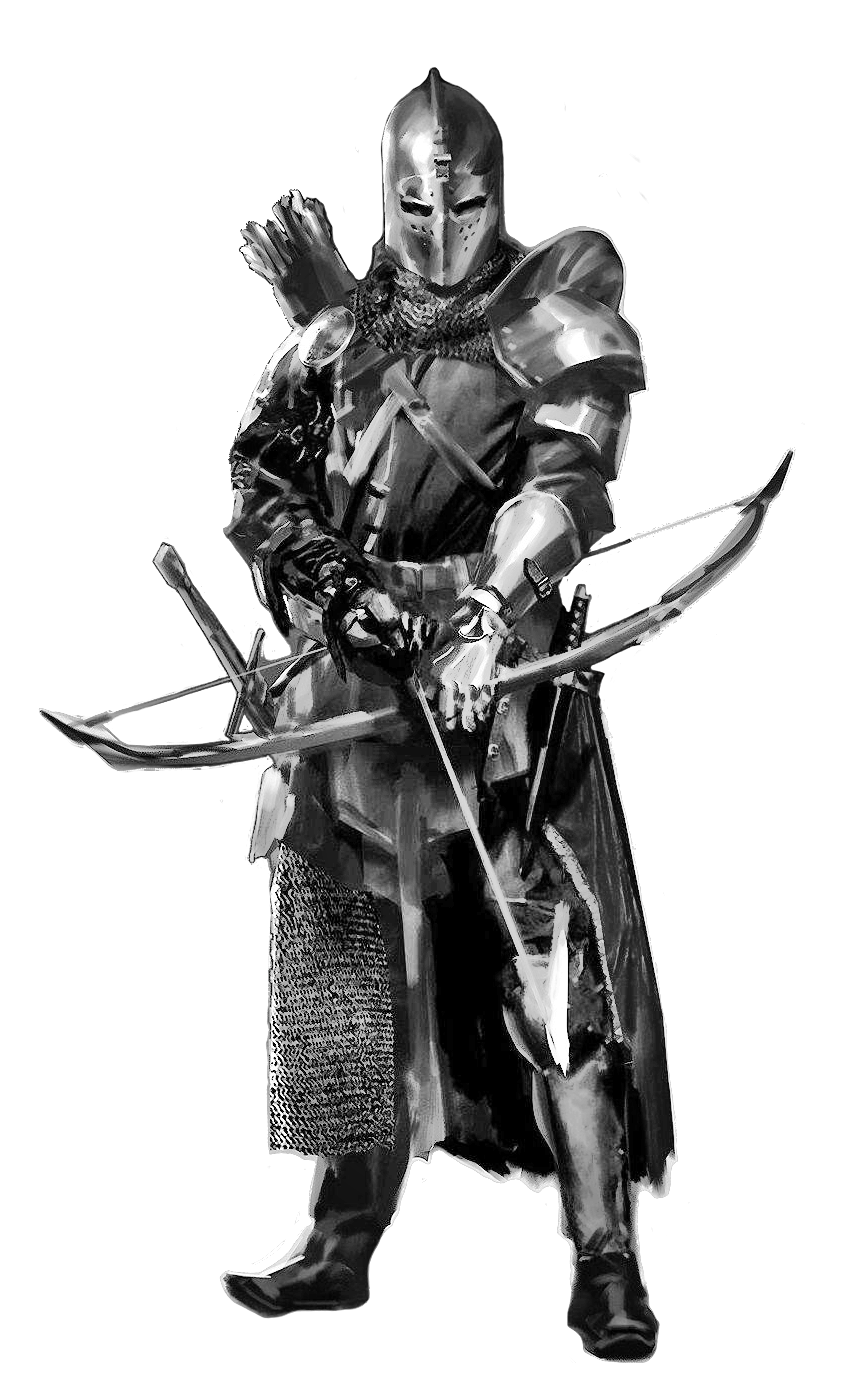
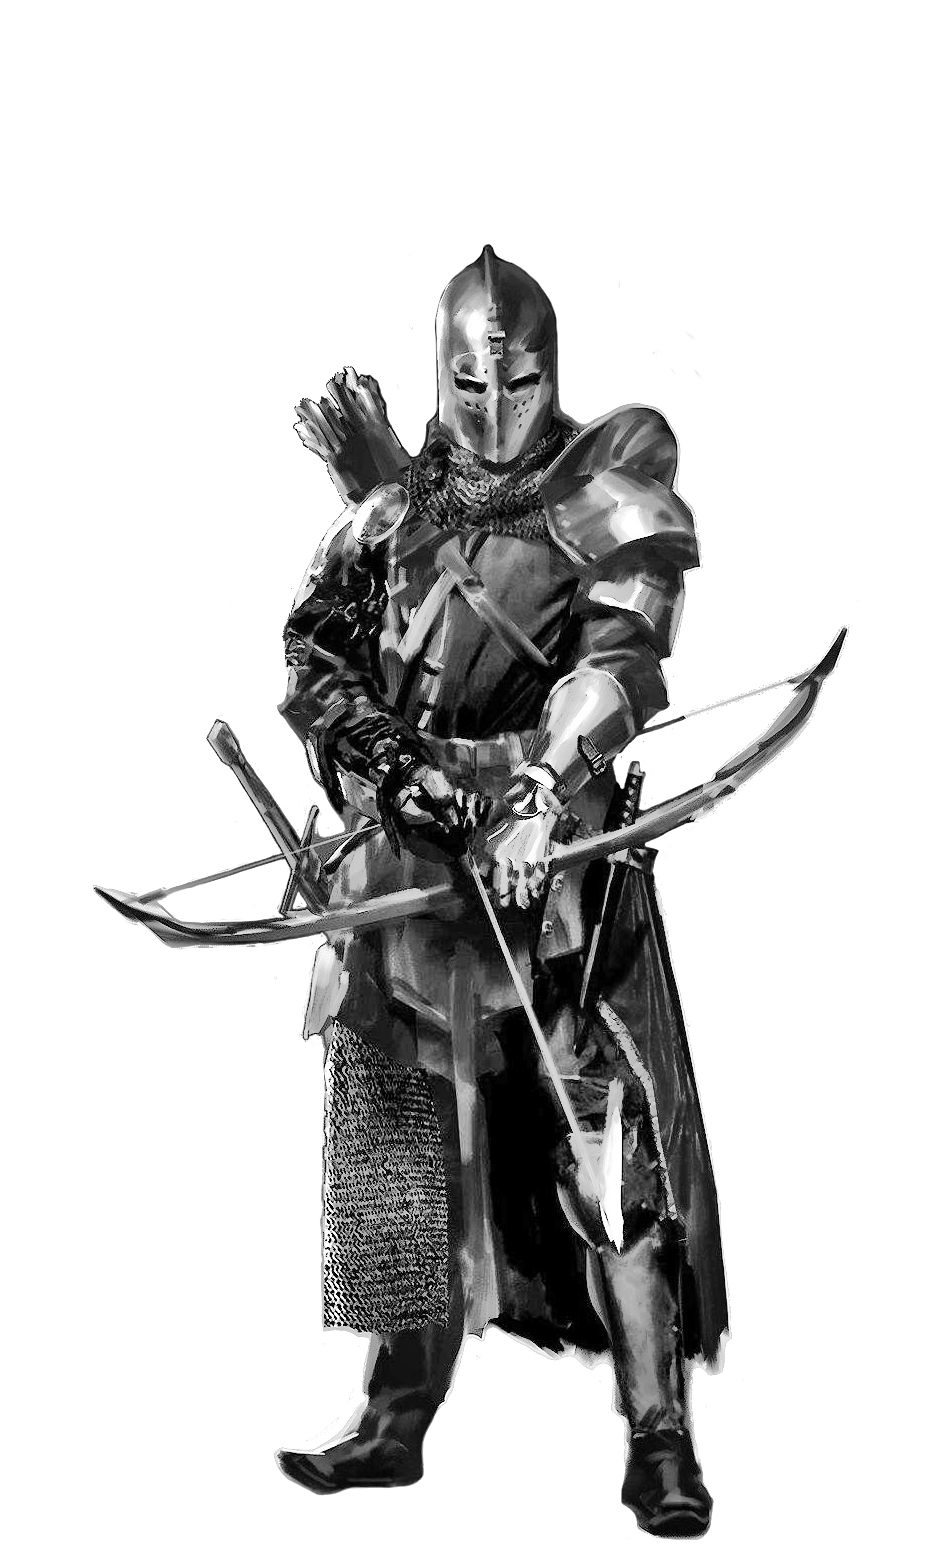
muokattu kuvia ja css

Changed region(s): [[0.0309, 0.0311, 0.9264, 0.9949], [0.9264, 0.3109, 0.9572, 0.342]]

diff --git a/html/index-new.html b/html/index-new.html
@@ -40,7 +40,7 @@
                 </div>
 
                 <div class="slideshow-kuvat">
-                <input id="taikasoturi-nainen" value="taikasoturi" name="nainen" type="image" src="../static/images/pelaaja-luokat/taikasoturi-mies.png" alt="kuva taikasoturista-nainen" class="luokka-kuvat">
+                <input id="taikasoturi-nainen" value="taikasoturi" name="nainen" type="image" src="../static/images/pelaaja-luokat/taikasoturi-nainen.png" alt="kuva taikasoturista-nainen" class="luokka-kuvat">
                 </div>
 
 

diff --git a/static/style-new.css b/static/style-new.css
@@ -82,7 +82,7 @@ body {
 
 .slideshow-kuvat {
     width: 50%;
-    height: 100%;
+    height: auto;
 }
 
 /* Hide the images by default */
